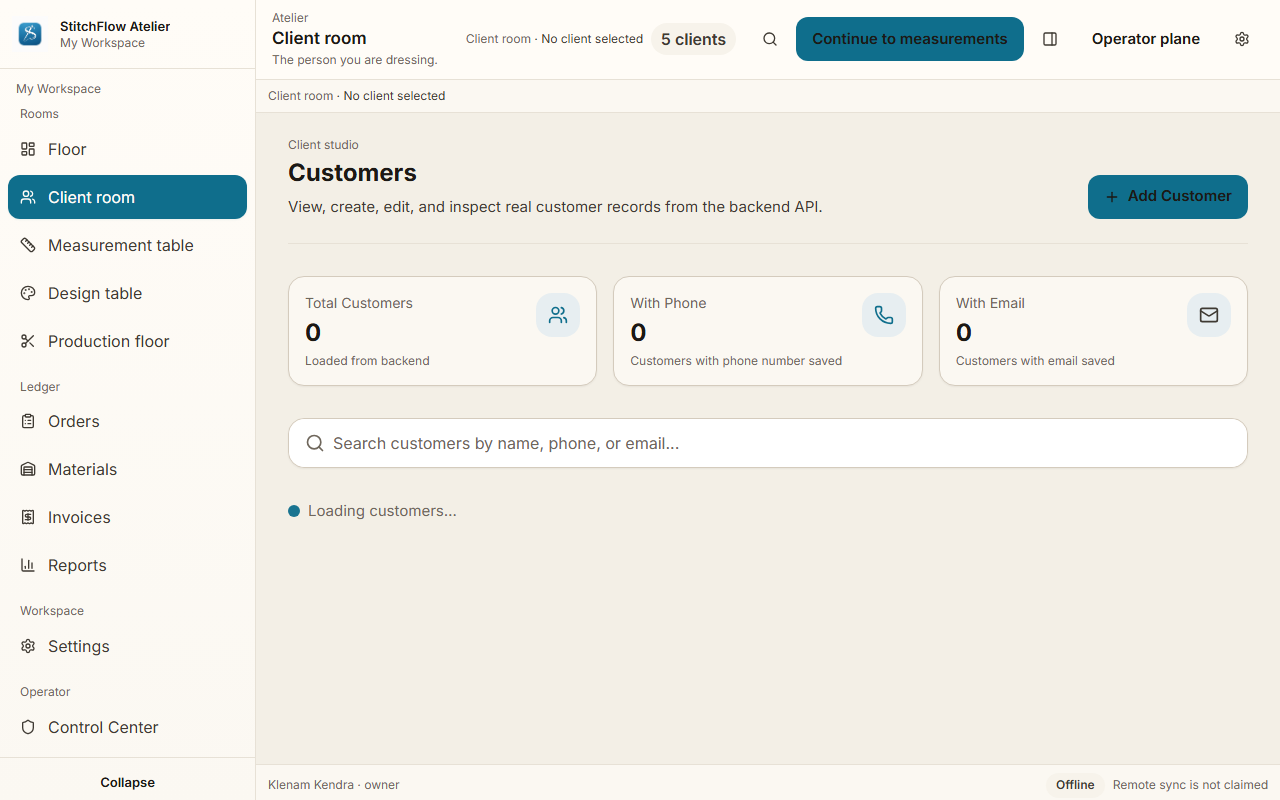
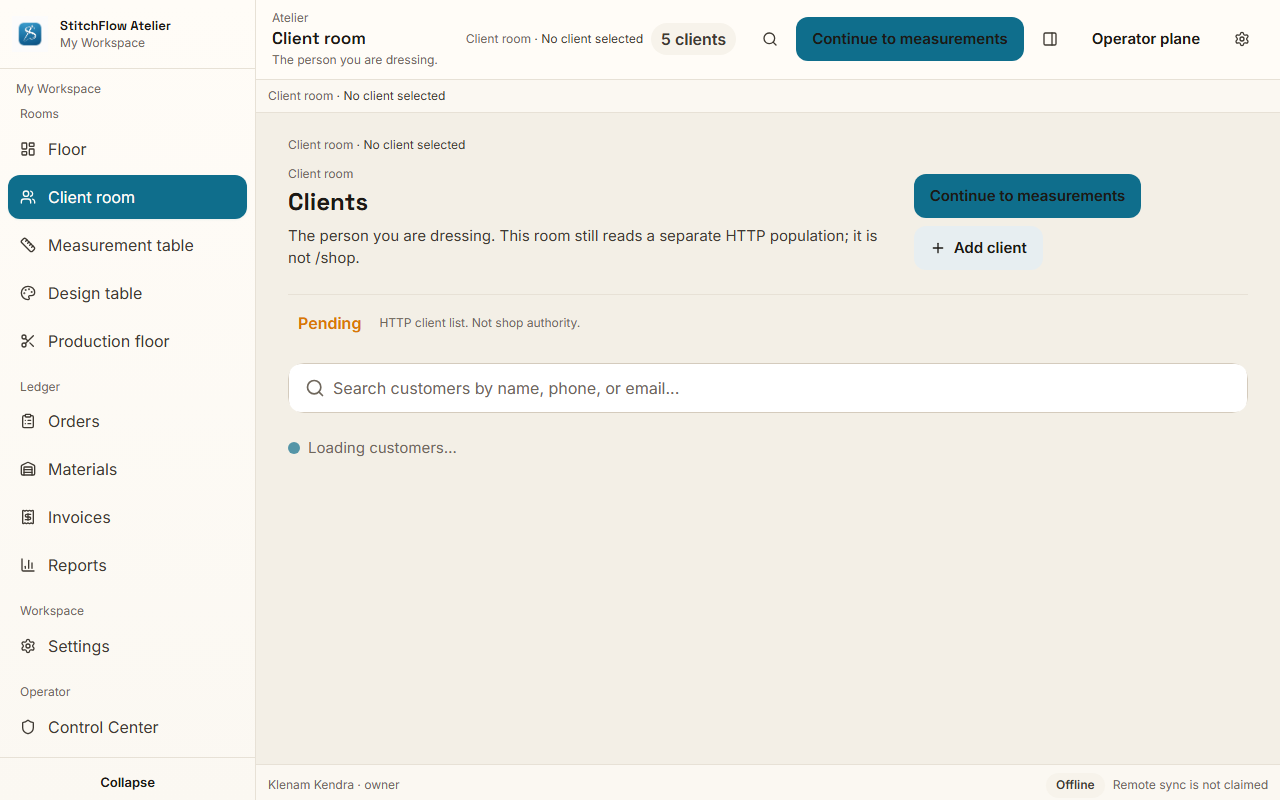
docs(experience): record SER-F5 Floor and workroom standard
Floor, workroom grammar, visual lab, and certification record. SER-F6 remains locked. Owner acceptance pending.

diff --git a/docs/architecture/frontend/experience/SER-F5_FINAL_REPORT.md b/docs/architecture/frontend/experience/SER-F5_FINAL_REPORT.md
@@ -1,0 +1,145 @@
+# STITCHFLOW SER-F5
+
+ATELIER FLOOR + WORKROOM EXPERIENCE CONVERGENCE
+
+FINAL CERTIFICATION REPORT
+
+**SER-F5 STATUS: CONDITIONALLY CERTIFIED**  
+**OWNER ACCEPTANCE: PENDING**
+
+## Executive summary
+
+The Floor is now an operational atelier entry: orientation, honest thread, work in motion, attention, begin. A reusable `AtelierWorkroom` frames Client, Measurement, Design host, Production, and Ledger/Orders without completing those domain phases.
+
+## Baseline
+
+Branch `arena/01a05677-stitch-flow`. Started from F4 HEAD `c0510db`. Feat: `a1d7214`.
+
+## Starting forensic findings
+
+F4 gave named rooms and a persistent thread. Interiors were still mixed: Floor used a two-card dashboard; Measurement borrowed `rows[0]` as thread; Client/Production printed unmounted API URLs; Production used a gradient mini-app chrome.
+
+## Files changed
+
+See feat and docs commits. Principal: `AtelierHome.tsx`, `atelier.tsx` (`AtelierWorkroom`), `DesignStudioFrame.tsx`, `MeasurementWorkspace.tsx`, `Customers.tsx`, `ProductionBoard.tsx`, `Orders.tsx`, tests, visual lab, SER-F5 docs.
+
+## Files intentionally not changed
+
+`DesignStudio.tsx`, `patternEngine.ts`, `productionAssistant.ts`, `shared/types/index.ts`, `productionStageService.ts`, SAC/backend, AppContext authority, localStorage.
+
+## Floor transformation
+
+See [`SER-F5_FLOOR.md`](./SER-F5_FLOOR.md).
+
+## Workroom standard architecture
+
+See [`SER-F5_WORKROOM_STANDARD.md`](./SER-F5_WORKROOM_STANDARD.md).
+
+## Room wrapper convergence
+
+Framing + next actions + honest state language. Interiors of Client/Production/Ledger not redesigned (F6/F8/F9).
+
+## Client/order continuity
+
+`selectedOrderId` / workflow customer. Floor and Measurement no longer invent a thread from the first list row.
+
+## Truthful data/status language
+
+Local workspace / Pending / Offline. Client and Production errors no longer include API URLs. Dual AppContext vs HTTP populations remain visible, not merged.
+
+## Cinematic motion implementation
+
+F3 only: MICRO on Floor rows; CONTEXTUAL empty states; WORKSPACE room change from F4. No milestone on navigation.
+
+## Responsive implementation
+
+Floor 1280 / 768 / 390 captured. Aside stacks. Measurement 390 captured. 44px targets on Floor actions and lists.
+
+## Accessibility safeguards
+
+h2 workroom titles, labeled buttons, skip link retained, Dialog unchanged. No AT audit.
+
+## Visual lab evidence
+
+[`SER-F5_VISUAL_LAB.md`](./SER-F5_VISUAL_LAB.md).
+
+## Performance measurements
+
+`vite build`: `main-9H6oTjjq.js` **920.80 kB** / gzip **261.86 kB**; DataTable **313.38 kB** / **101.45 kB**. F4 main was 919.16 / 261.24. FPS **NOT VERIFIED**.
+
+## Tests and exact results
+
+```
+test:studio       13/13 pass
+test:experience   22/22 pass
+vite build        exit 0
+```
+
+`tsc --noEmit` inherited FAIL. Not re-claimed.
+
+## Protected asset verification
+
+| Asset | SHA-256 | Diff |
+|---|---|---|
+| patternEngine.ts | `d02000d6…0e16dc` | none |
+| productionAssistant.ts | `140a646d…d571c4` | none |
+| shared/types/index.ts | `424ef618…e3d0d9` | none |
+| productionStageService.ts | `eef8854f…cd67c8` | none |
+| DesignStudio.tsx | `8e68e8bb…1d40db` | none |
+
+## SAC authority verification
+
+No `/shop` screen migration. No unauthenticated remount. No schema. No auto-sync. AppContext remains UI SoT.
+
+## Known limitations
+
+- Client room lab shot is HTTP **loading**, not the later error wall.
+- Production/Ledger interiors remain legacy.
+- Thread still repeats (shell + workroom).
+- Motion stills cannot prove animation.
+
+## Explicitly deferred
+
+F6 Client+Measurement experience, F7 Design commitment, F8 Production, F9 Ledger, F10 Control Center, F11–F15.
+
+## Acceptance matrix
+
+| Axis | Result |
+|---|---|
+| Floor identity | PASS |
+| Operational orientation | PASS |
+| Active thread truthfulness | PASS |
+| Next-action clarity | PASS |
+| Workroom standard | PASS |
+| Room wrapper convergence | PASS |
+| Visual coherence | CONDITIONAL (interiors still mixed) |
+| Cinematic continuity | CONDITIONAL |
+| Motion causality | PASS |
+| Empty/loading/error language | PASS |
+| Data authority integrity | PASS |
+| SAC integrity | PASS |
+| Responsive desktop | PASS |
+| Responsive tablet | PASS |
+| Responsive mobile | PASS |
+| Accessibility regression | CONDITIONAL |
+| Reduced motion | CONDITIONAL |
+| Runtime visual evidence | PASS |
+| Performance | CONDITIONAL |
+| Protected asset integrity | PASS |
+| Regression | CONDITIONAL |
+
+## Commit hashes
+
+- Feat: `a1d7214` `feat(experience): add SER-F5 Floor and workroom standard`
+- Docs: this commit
+
+## Push confirmation / working-tree preservation
+
+Unrelated dirt (`WorkflowContext.tsx`, lockfiles, pnpm files, nested `stitch-flow/`) not staged.
+
+## Final certification status
+
+**SER-F5 STATUS: CONDITIONALLY CERTIFIED**  
+**OWNER ACCEPTANCE: PENDING**
+
+Next locked phase: **SER-F6 — Client + Measurement Experience**.

diff --git a/docs/architecture/AGENT_START_HERE.md b/docs/architecture/AGENT_START_HERE.md
@@ -60,7 +60,8 @@ SER-F0 frontend experience forensics: [`../experience/ser/f0/README.md`](../expe
 SER-F1 experience constitution: [`frontend/experience/README.md`](./frontend/experience/README.md).  
 SER-F2 visual language: [`frontend/experience/SER-F2_FINAL_REPORT.md`](./frontend/experience/SER-F2_FINAL_REPORT.md).  
 SER-F3 cinematic motion: [`frontend/experience/SER-F3_FINAL_REPORT.md`](./frontend/experience/SER-F3_FINAL_REPORT.md).  
-SER-F4 atelier shell: [`frontend/experience/SER-F4_FINAL_REPORT.md`](./frontend/experience/SER-F4_FINAL_REPORT.md). SER-F5 locked. 3D and Phase 20 remain locked.
+SER-F4 atelier shell: [`frontend/experience/SER-F4_FINAL_REPORT.md`](./frontend/experience/SER-F4_FINAL_REPORT.md).  
+SER-F5 Floor + workroom: [`frontend/experience/SER-F5_FINAL_REPORT.md`](./frontend/experience/SER-F5_FINAL_REPORT.md). SER-F6 locked. 3D and Phase 20 remain locked.
 
 ---
 

diff --git a/docs/architecture/frontend/experience/README.md b/docs/architecture/frontend/experience/README.md
@@ -5,5 +5,6 @@ SER-F1 constitution (this folder).
 SER-F2 visual language: [`SER-F2_FINAL_REPORT.md`](./SER-F2_FINAL_REPORT.md).  
 SER-F3 cinematic motion: [`SER-F3_FINAL_REPORT.md`](./SER-F3_FINAL_REPORT.md).  
 SER-F4 atelier shell: [`SER-F4_FINAL_REPORT.md`](./SER-F4_FINAL_REPORT.md).  
-Grammar: [`SER-F4_SHELL_ARCHITECTURE.md`](./SER-F4_SHELL_ARCHITECTURE.md), [`SER-F4_NAVIGATION_GRAMMAR.md`](./SER-F4_NAVIGATION_GRAMMAR.md), [`SER-F4_CONTEXT_THREAD.md`](./SER-F4_CONTEXT_THREAD.md), [`SER-F4_RESPONSIVE_SHELL.md`](./SER-F4_RESPONSIVE_SHELL.md), [`SER-F4_VISUAL_LAB.md`](./SER-F4_VISUAL_LAB.md).  
-SER-F5 locked.
+SER-F5 Floor + workroom: [`SER-F5_FINAL_REPORT.md`](./SER-F5_FINAL_REPORT.md).  
+[`SER-F5_FLOOR.md`](./SER-F5_FLOOR.md), [`SER-F5_WORKROOM_STANDARD.md`](./SER-F5_WORKROOM_STANDARD.md), [`SER-F5_VISUAL_LAB.md`](./SER-F5_VISUAL_LAB.md).  
+SER-F6 locked.

diff --git a/docs/architecture/frontend/experience/SER-F5_VISUAL_LAB.md b/docs/architecture/frontend/experience/SER-F5_VISUAL_LAB.md
@@ -1,0 +1,17 @@
+# SER-F5 visual lab
+
+Product `/` only. Script: `apps/web/scripts/visual-lab.mjs`. Runtime: Vite `:5175`.
+
+| File | Pixels | Result |
+|---|---|---|
+| `lab/floor-1280.png` | 1280×800 | Floor: No client selected, work in motion, attention aside |
+| `lab/floor-768.png` | 768×800 | Tablet Floor; next action remains |
+| `lab/floor-390.png` | 390×844 | Mobile Floor; empty thread + work in motion |
+| `lab/floor-390-nav.png` | 390×844 | Drawer |
+| `lab/floor-1280-reduced.png` | 1280×800 | Reduced-motion still |
+| `lab/clients-1280.png` | 1280×800 | Client room wrapper; Pending / HTTP list; not /shop |
+| `lab/measurements-1280.png` | 1280×800 | Honest empty profiles |
+| `lab/measurements-390.png` | 390×844 | Measurement workroom on mobile |
+| `lab/design-1280.png` | 1280×800 | Hosted — not rewritten |
+
+Motion video: not captured.

diff --git a/docs/architecture/frontend/experience/SER-F5_WORKROOM_STANDARD.md b/docs/architecture/frontend/experience/SER-F5_WORKROOM_STANDARD.md
@@ -1,0 +1,18 @@
+# SER-F5 workroom standard
+
+Implemented as `AtelierWorkroom` (`data-workroom={place}`).
+
+Slots: place identity, purpose, thread, confidence, primary action, primary surface, optional aside (stacks below `xl`).
+
+Applied in F5:
+
+| Room | Wrapper | Interior |
+|---|---|---|
+| Floor | rebuilt | operational composition |
+| Client room | framing + honest HTTP language | list/CRUD deferred to F6 |
+| Measurement table | framing; thread from workflow, not `rows[0]` | freeze/governed tools unchanged |
+| Design table | host frame only | `DesignStudio.tsx` untouched |
+| Production floor | framing; gradient chrome removed | HTTP board interior deferred to F8 |
+| Ledger / Orders | framing | station interiors deferred to F9 |
+
+Empty / loading / error copy names the workspace condition. It does not print unmounted API URLs.

diff --git a/docs/architecture/README.md b/docs/architecture/README.md
@@ -20,7 +20,7 @@ This directory is the **Level 2** governance layer.
 | [continuity/](./continuity/) | Synthesized runtime / data / protected / phase maps |
 | [convergence/](./convergence/) | SAC-0 forensics; SAC-1–SAC-5 implementation records (3D / Phase 20 locked) |
 | [../experience/ser/f0/](../experience/ser/f0/README.md) | SER-F0 experience forensics |
-| [frontend/experience/](./frontend/experience/README.md) | SER-F1–F4 experience (SER-F5 locked) |
+| [frontend/experience/](./frontend/experience/README.md) | SER-F1–F5 experience (SER-F6 locked) |
 | [adr/](./adr/) | Architecture Decision Records ADR-001 … ADR-011 |
 | [governance/](./governance/) | Constitution index, gate register, supersession policy |
 

diff --git a/docs/architecture/frontend/experience/SER-F5_FLOOR.md b/docs/architecture/frontend/experience/SER-F5_FLOOR.md
@@ -1,0 +1,15 @@
+# SER-F5 Floor
+
+The Floor is the operational start of the atelier, not a KPI dashboard.
+
+Regions (spatial, not a card grid):
+
+| Region | Source | Empty truth |
+|---|---|---|
+| Orientation | Workspace name + place kicker | Always present |
+| Active thread | `selectedOrderId` → client/order | “No client selected” + Open client room |
+| Work in motion | AppContext orders `in_progress` / `ready` | “No garments in progress” |
+| Attention | unresolved `dueAlerts` | “Quiet floor” |
+| Begin | Navigation only | Open client room / Measurement table |
+
+Does not use `recentCustomers[0]`, `totalRevenue`, or remote-sync language.
